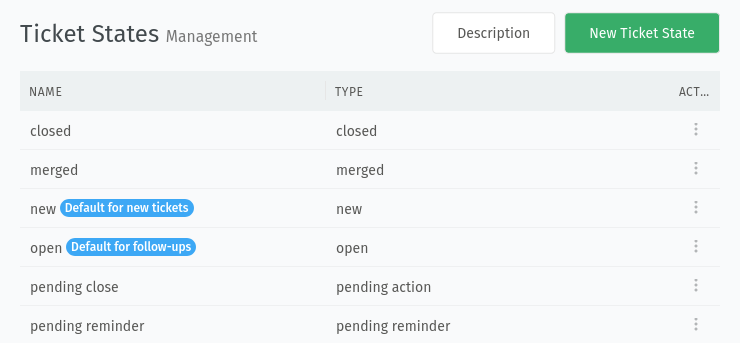
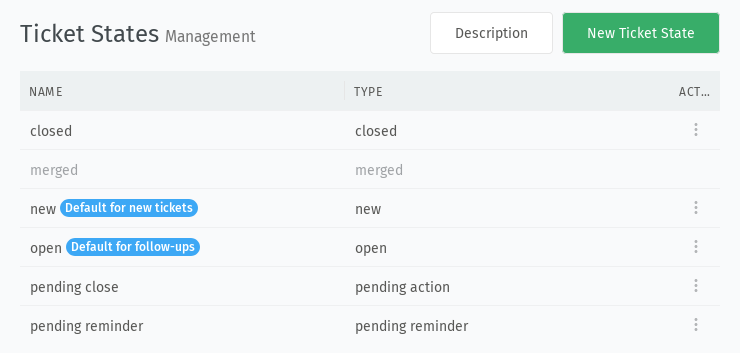
Merge state changes

diff --git a/system/objects.rst b/system/objects.rst
@@ -105,6 +105,9 @@ Handling of states
       :scale: 80%
       :alt: Screenshot showing table of default ticket states
 
+   .. note:: The `merged` state can't be changed because it is a required system
+      state. Otherwise, the merging of tickets would lead to errors.
+
    To add a new state, click on the "New Ticket State" button in the top right
    corner. To change an existing state, simply click on the affected state. This
    opens an edit dialog.
@@ -139,7 +142,6 @@ Ticket state in detail
           worked on them
         - **open**: for states for tickets that are in progress and agents are
           working on them
-        - **merged**: for states for tickets that are merged with other tickets
         - **pending reminder**: for states for tickets that are in progress and
           you want to set a reminder. (default example: *pending reminder*)
         - **pending action**: for states for tickets that are waiting for a
